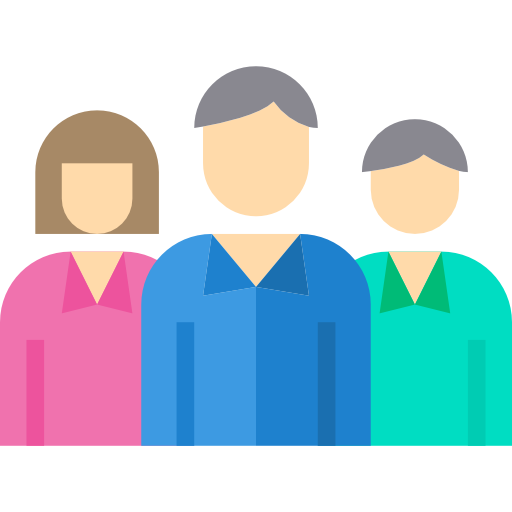
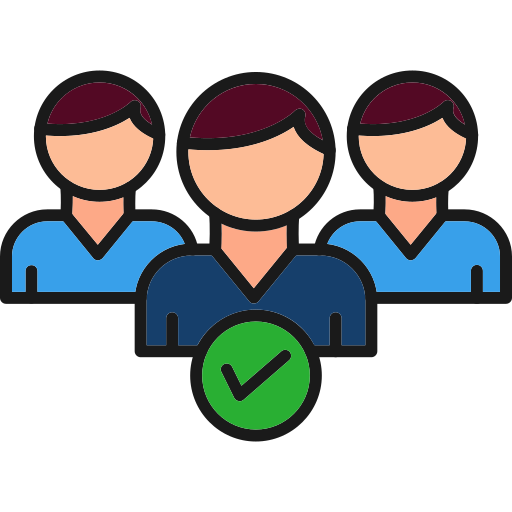
work on the console

diff --git a/src/main/java/alrosa/staa/gatekeeper/Controller.java b/src/main/java/alrosa/staa/gatekeeper/Controller.java
@@ -1,10 +1,10 @@
 package alrosa.staa.gatekeeper;
 
-import alrosa.staa.gatekeeper.containers.CardReaderContainer;
-import alrosa.staa.gatekeeper.containers.MainContainer;
-import alrosa.staa.gatekeeper.containers.PercoContainer;
-import alrosa.staa.gatekeeper.containers.ServerContainer;
+import alrosa.staa.gatekeeper.containers.*;
 import alrosa.staa.gatekeeper.objects.bureau.Bureau;
+import alrosa.staa.gatekeeper.objects.bureau.admins.Administrators;
+import alrosa.staa.gatekeeper.objects.bureau.operators.Operators;
+import alrosa.staa.gatekeeper.objects.bureau.users.Users;
 import alrosa.staa.gatekeeper.objects.computer.Computer;
 import alrosa.staa.gatekeeper.objects.Direction;
 import alrosa.staa.gatekeeper.objects.global.Global;
@@ -100,6 +100,12 @@ public class Controller implements Initializable {
     private final Image imagePERCoC01 = new Image("PERCoC01.png");
     //Указываем путь к рисунку cardreader
     private final Image imageCardReader = new Image("cardreader.png");
+    //Указываем путь к рисунку users
+    private final Image imageUsers = new Image("users.png");
+    //Указываем путь к рисунку admins
+    private final Image imageAdmins = new Image("admins.png");
+    //Указываем путь к рисунку operators
+    private final Image imageOperators = new Image("operators.png");
     //Добавим контекстное меню
     private ContextMenu contextMenu = new ContextMenu();
     //Создание кнопки "Добавить"
@@ -112,15 +118,16 @@ public class Controller implements Initializable {
     private TreeView root = new TreeView(mainSystem);
     //Создадим статическую ветку
     private static TreeItem<Global> item;
-
     //Создаем экземпляр главного контейнера
     private MainContainer mainContainer = new MainContainer();
     //Создаем экземпляр для серверного контейнера
     private ServerContainer serverContainer = new ServerContainer();
     //Создаем экземпляр для контейнера оборудования Perco
     private PercoContainer percoContainer = new PercoContainer();
-    //Создаем экземпляр для контейнера считывателя
-    private CardReaderContainer cardReader = new CardReaderContainer();
+    //Создаем экземпляр для контейнера Считывателя
+    private CardReaderContainer cardReaderContainer = new CardReaderContainer();
+    //Создаем экземпляр для контейнера Бюро
+    private BureauContainer bureauContainer = new BureauContainer();
     private Stage stage = new Stage();
     @Override
     public void initialize(URL url, ResourceBundle resourceBundle)
@@ -212,11 +219,19 @@ public class Controller implements Initializable {
                             case PERCOC01:
                                 item = selectedItem;
                                 try {
-                                    cardReader.start(stage);
+                                    cardReaderContainer.start(stage);
                                 } catch (Exception e) {
                                     throw new RuntimeException(e);
                                 }
                                 break;
+                            case BUREAU:
+                                item = selectedItem;
+                                try {
+                                    bureauContainer.start(stage);
+                                } catch (Exception e) {
+                                    throw new RuntimeException(e);
+                                }
+
                             default: System.out.println("Selected item: " + value);
                         }
                     });
@@ -286,6 +301,27 @@ public class Controller implements Initializable {
             imageViewCardReader.setFitHeight(25);
             cardReader.setGraphic(imageViewCardReader);
             item.getChildren().add(cardReader);
+        } else if (toggleButtonUsers.isSelected()) {
+            TreeItem users = new TreeItem<Global>(new Users());
+            ImageView imageViewUsers = new ImageView(imageUsers);
+            imageViewUsers.setFitWidth(25);
+            imageViewUsers.setFitHeight(25);
+            users.setGraphic(imageViewUsers);
+            item.getChildren().add(users);
+        } else if (toggleButtonAdmins.isSelected()) {
+            TreeItem admins = new TreeItem<Global>(new Administrators());
+            ImageView imageViewAdmins = new ImageView(imageAdmins);
+            imageViewAdmins.setFitWidth(25);
+            imageViewAdmins.setFitHeight(25);
+            admins.setGraphic(imageViewAdmins);
+            item.getChildren().add(admins);
+        } else if (toggleButtonOperators.isSelected()) {
+            TreeItem operators = new TreeItem<Global>(new Operators());
+            ImageView imageViewOperators = new ImageView(imageOperators);
+            imageViewOperators.setFitWidth(25);
+            imageViewOperators.setFitHeight(25);
+            operators.setGraphic(imageViewOperators);
+            item.getChildren().add(operators);
         }
         else {
             System.out.println("NE VYBRAN OBJECT");

diff --git a/src/main/java/alrosa/staa/gatekeeper/containers/BureauContainer.java b/src/main/java/alrosa/staa/gatekeeper/containers/BureauContainer.java
@@ -1,0 +1,22 @@
+package alrosa.staa.gatekeeper.containers;
+
+import alrosa.staa.gatekeeper.GateKeeper;
+import javafx.application.Application;
+import javafx.fxml.FXMLLoader;
+import javafx.scene.Parent;
+import javafx.scene.Scene;
+import javafx.stage.Stage;
+
+public class BureauContainer extends Application {
+    @Override
+    public void start(Stage stage) throws Exception {
+        try {
+            Parent fxmlBureauContainer = FXMLLoader.load(GateKeeper.class.getResource("bureau/bureaucontainer.fxml"));
+            Scene scene = new Scene(fxmlBureauContainer, 460, 165);
+            stage.setScene(scene);
+            stage.show();
+        } catch (Exception e) {
+            e.printStackTrace();
+        }
+    }
+}
